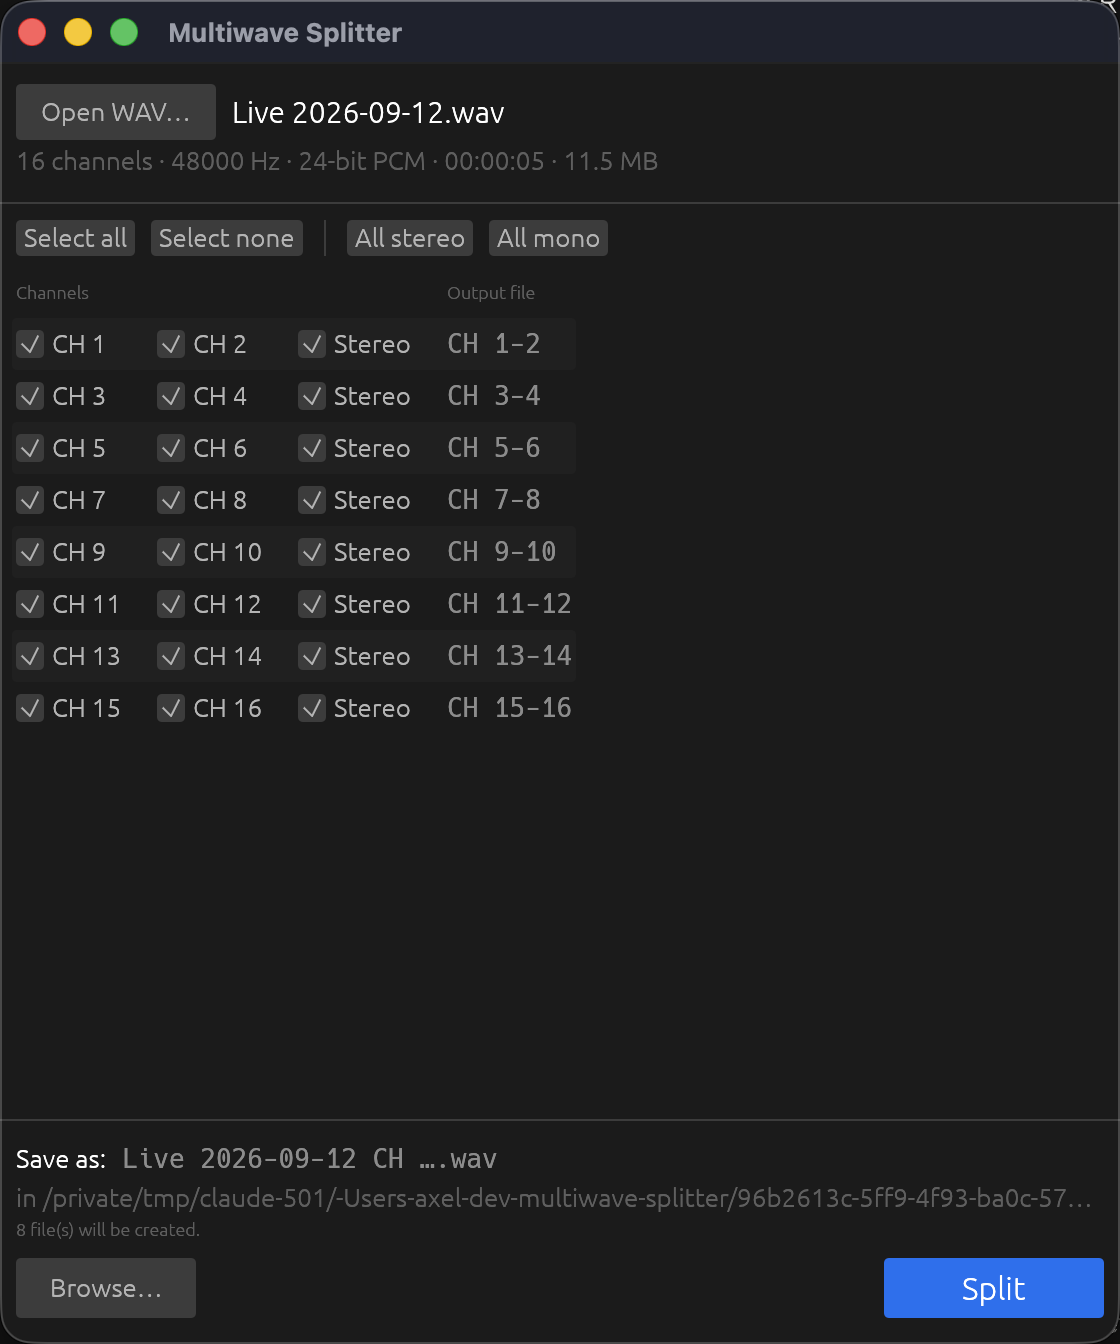
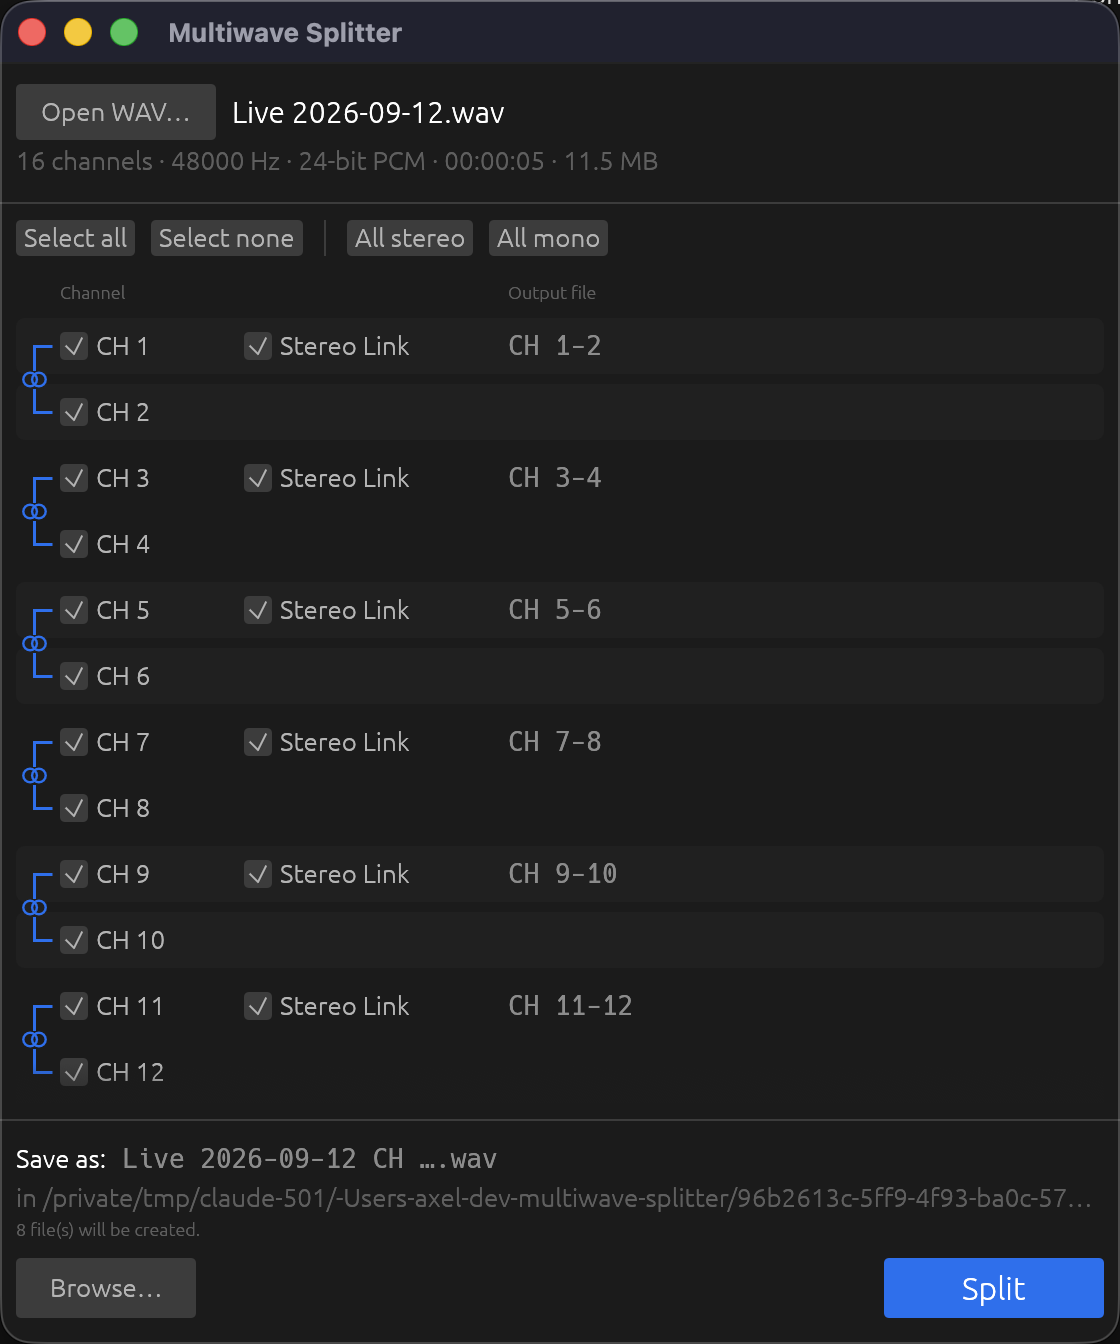
Select linked channels together; release 0.2.0
A stereo-linked pair now behaves like linked mixer channels: ticking or
unticking one channel does the same to the other, and linking a
half-selected pair selects both. This removes the ambiguous state where
a linked pair silently exported as mono. README and screenshot updated
for the Stereo Link list.

diff --git a/src/main.rs b/src/main.rs
@@ -297,6 +297,7 @@ impl App {
                 ui.separator();
                 if ui.button("All stereo").clicked() {
                     l.link = split::default_links(n);
+                    split::sync_linked_selection(n, &l.link, &mut l.selected);
                 }
                 if ui.button("All mono").clicked() {
                     l.link.iter_mut().for_each(|s| *s = false);
@@ -309,6 +310,14 @@ impl App {
         let groups = split::link_groups(n, &l.link);
         let linkable: Vec<bool> = (0..n).map(|c| split::can_link(n, &l.link, c)).collect();
         let mut group_of = vec![0usize; n as usize];
+        // The other channel of a linked pair, if any.
+        let mut partner: Vec<Option<usize>> = vec![None; n as usize];
+        for g in &groups {
+            if let Some(b) = g.second {
+                partner[g.first as usize] = Some(b as usize);
+                partner[b as usize] = Some(g.first as usize);
+            }
+        }
         let mut row_text: Vec<Option<String>> = vec![None; n as usize];
         for (gi, g) in groups.iter().enumerate() {
             group_of[g.first as usize] = gi;
@@ -374,7 +383,15 @@ impl App {
                                 .max_rect(cell(row, GUTTER, CH_W))
                                 .layout(left_aligned),
                             |ui| {
-                                ui.checkbox(&mut l.selected[ch], format!("CH {}", ch + 1));
+                                let changed = ui
+                                    .checkbox(&mut l.selected[ch], format!("CH {}", ch + 1))
+                                    .changed();
+                                // Linked channels are selected together.
+                                if changed {
+                                    if let Some(p) = partner[ch] {
+                                        l.selected[p] = l.selected[ch];
+                                    }
+                                }
                             },
                         );
                         if linkable[ch] {
@@ -383,13 +400,16 @@ impl App {
                                     .max_rect(cell(row, GUTTER + CH_W, LINK_W))
                                     .layout(left_aligned),
                                 |ui| {
-                                    ui.checkbox(&mut l.link[ch], "Stereo Link").on_hover_text(
-                                        format!(
+                                    let resp = ui
+                                        .checkbox(&mut l.link[ch], "Stereo Link")
+                                        .on_hover_text(format!(
                                             "Make CH {} and CH {} one stereo file",
                                             ch + 1,
                                             ch + 2
-                                        ),
-                                    );
+                                        ));
+                                    if resp.changed() {
+                                        split::sync_linked_selection(n, &l.link, &mut l.selected);
+                                    }
                                 },
                             );
                         }
@@ -831,6 +851,28 @@ mod ui_tests {
             .map(|o| file_name(&o.path))
             .collect();
         assert_eq!(names, ["Three CH 1.wav", "Three CH 2-3.wav"]);
+
+        // Unticking one side of a linked pair unticks both.
+        harness.get_all_by_label("CH 3").next().unwrap().click();
+        harness.run();
+        assert_eq!(
+            harness.state().loaded.as_ref().unwrap().selected,
+            [true, false, false]
+        );
+        let names: Vec<String> = harness
+            .state()
+            .outputs()
+            .iter()
+            .map(|o| file_name(&o.path))
+            .collect();
+        assert_eq!(names, ["Three CH 1.wav"]);
+        // Ticking it again brings the stereo pair back.
+        harness.get_all_by_label("CH 2").next().unwrap().click();
+        harness.run();
+        assert_eq!(
+            harness.state().loaded.as_ref().unwrap().selected,
+            [true, true, true]
+        );
         let _ = std::fs::remove_dir_all(&dir);
     }
 }

diff --git a/src/split.rs b/src/split.rs
@@ -106,6 +106,21 @@ pub fn can_link(channels: u16, link: &[bool], ch: u16) -> bool {
     ch + 1 < channels && starts_group && !next_is_linked
 }
 
+/// Linked channels are selected together, like stereo-linked mixer channels.
+/// After links change, a pair whose two channels disagree becomes selected
+/// (linking signals that the pair is wanted as stereo).
+pub fn sync_linked_selection(channels: u16, link: &[bool], selected: &mut [bool]) {
+    for g in link_groups(channels, link) {
+        if let Some(b) = g.second {
+            let (a, b) = (g.first as usize, b as usize);
+            if selected[a] != selected[b] {
+                selected[a] = true;
+                selected[b] = true;
+            }
+        }
+    }
+}
+
 /// Output channels for one group given the selection: a stereo pair when both
 /// linked channels are selected, otherwise mono files for what is selected.
 pub fn group_outputs(g: LinkGroup, selected: &[bool]) -> Vec<Vec<u16>> {
@@ -361,6 +376,10 @@ mod tests {
             ["CH 1-2", "CH 3"]
         );
         assert!(!can_link(3, &link, 1));
+        // Linking a half-selected pair selects both channels.
+        let mut sel = [true, true, false];
+        sync_linked_selection(3, &[false, true, false], &mut sel);
+        assert_eq!(sel, [true, true, true]);
         // Last channel can never link.
         assert!(!can_link(3, &[false, false, true], 2));
     }

diff --git a/README.md b/README.md
@@ -20,15 +20,20 @@
 </p>
 
 Recorded a gig on a digital mixer (X32/Wing/SQ/dLive, Zoom, Sound Devices, a DAW export…) and got
-one huge 16/32/64-channel WAV? Open it in Multiwave Splitter, tick the channels you want, choose
-stereo or mono per channel pair, press **Split**. Done.
+one huge 16/32/64-channel WAV? Open it in Multiwave Splitter, tick the channels you want, link the
+stereo pairs, press **Split**. Done.
 
 ## Features
 
 - Pick which channels to export with checkboxes.
-- Channels are shown in pairs (1-2, 3-4, …). **Stereo** is ticked by default and turns the pair into
-  one stereo file. Untick it to get two mono files instead. Selecting only one channel of a pair
-  gives a mono file.
+- **Stereo Link** like on a mixer: a linked channel and the one below it become one stereo file,
+  shown with a bracket in the list. By default 1-2, 3-4, … are linked. Unlink a pair to get two
+  mono files.
+- Links can be moved: with 3 channels, unlink CH 1 and link CH 2 instead to get `CH 1` + `CH 2-3`.
+  Stereo Link is offered on a channel when there is a channel below it, and neither of them is
+  already part of another link.
+- Linked channels are selected together, so a stereo pair is always exported as stereo. To export
+  just one side of a pair, unlink it first.
 - Clear file names: `Show.wav` → `Show CH 1-2.wav`, `Show CH 3.wav`, `Show CH 4.wav` …
 - By default the files are saved next to the original with the same name. Use **Browse…** to pick
   another folder or base name.
@@ -89,8 +94,8 @@ All downloads are also listed on the [Releases page](https://github.com/axelshar
 ## How to use
 
 1. Click **Open WAV…** (or drop a file on the window).
-2. Tick the channels you want. Use **Select all / Select none** and **All stereo / All mono** for
-   speed. The *Output file* column shows exactly which files will be created.
+2. Tick the channels you want and set **Stereo Link** on the pairs that belong together. Use
+   **Select all / Select none** and **All stereo / All mono** for speed. The *Output file* column shows exactly which files will be created.
 3. Optional: click **Browse…** to choose another output folder or base name.
 4. Click **Split**.
 
@@ -131,7 +136,7 @@ split, cancellation, and a UI test that clicks through the whole app.
 
 ```
 src/wav.rs      WAV/RF64 reader and streaming writer (no external audio libraries)
-src/split.rs    Output planning (pairs, stereo/mono, file names) and the split itself
+src/split.rs    Output planning (Stereo Link, file names) and the split itself
 src/main.rs     GUI (egui/eframe)
 examples/       Headless command line split, used for testing
 installer/      Windows installer script, Linux .desktop file and install script
@@ -162,7 +167,7 @@ Contributions welcome! Open an issue or a pull request.
 - [ ] Batch mode: split several files at once with the same selection.
 - [ ] Handle recordings split into several files (e.g. X-Live/SD-card recorders that split every
       4 GB) and join them while splitting.
-- [ ] Free pairing: make any two channels a stereo file (e.g. CH 1 + CH 3).
+- [ ] Free pairing of non-adjacent channels as stereo (e.g. CH 1 + CH 3).
 - [ ] Remember the last output folder and settings between sessions.
 - [ ] Open files by dropping them on the Dock icon / "Open With" in Finder.
 - [ ] Optional conversion of bit depth / sample rate, and other output formats (FLAC, AIFF).
@@ -172,7 +177,7 @@ Contributions welcome! Open an issue or a pull request.
 - [ ] Peak meters or waveform preview per channel to spot empty channels.
 
 **Done**
-- [x] Channel selection with stereo/mono per pair, clear `CH x-y` suffixes.
+- [x] Channel selection with movable Stereo Link, clear `CH x-y` suffixes.
 - [x] Default output next to the input, optional Browse.
 - [x] PCM 8–32 bit, float 32/64 bit, EXTENSIBLE, RF64/BW64 in and out.
 - [x] Progress, cancel, safe overwrite.
